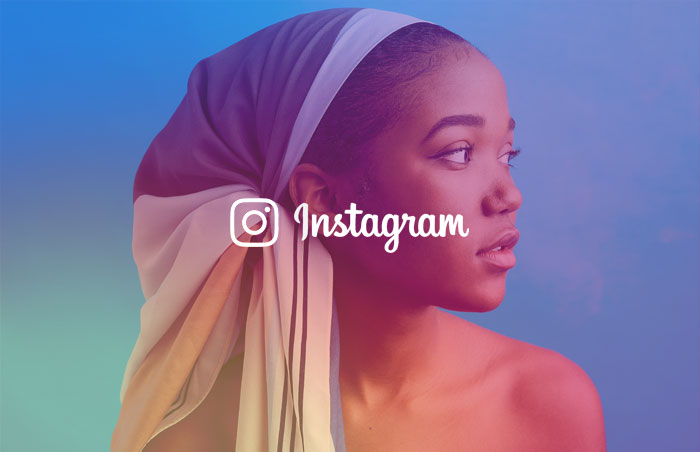
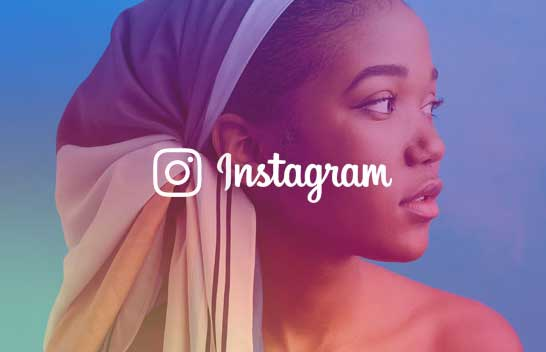
cover图片优化更新

diff --git a/content.html b/content.html
@@ -111,7 +111,7 @@
                   <div class="ArticleColumn1">
                     <a href="posts/20171126.html">
                       <div class="item item-image" style="border-radius: 4px;">
-                        <img src="images/article/20171126/cover2.jpg">
+                        <img src="images/article/20171126/cover.jpg">
                       </div>
                     </a>
                     <div style="padding-top: 12px;">

diff --git a/index.html b/index.html
@@ -243,7 +243,7 @@
                   <div class="ArticleColumn1">
                     <a href="posts/20171126.html">
                       <div class="item item-image" style="border-radius: 4px;">
-                        <img src="images/article/20171126/cover2.jpg">
+                        <img src="images/article/20171126/cover.jpg">
                       </div>
                     </a>
                     <div style="padding-top: 12px;">
